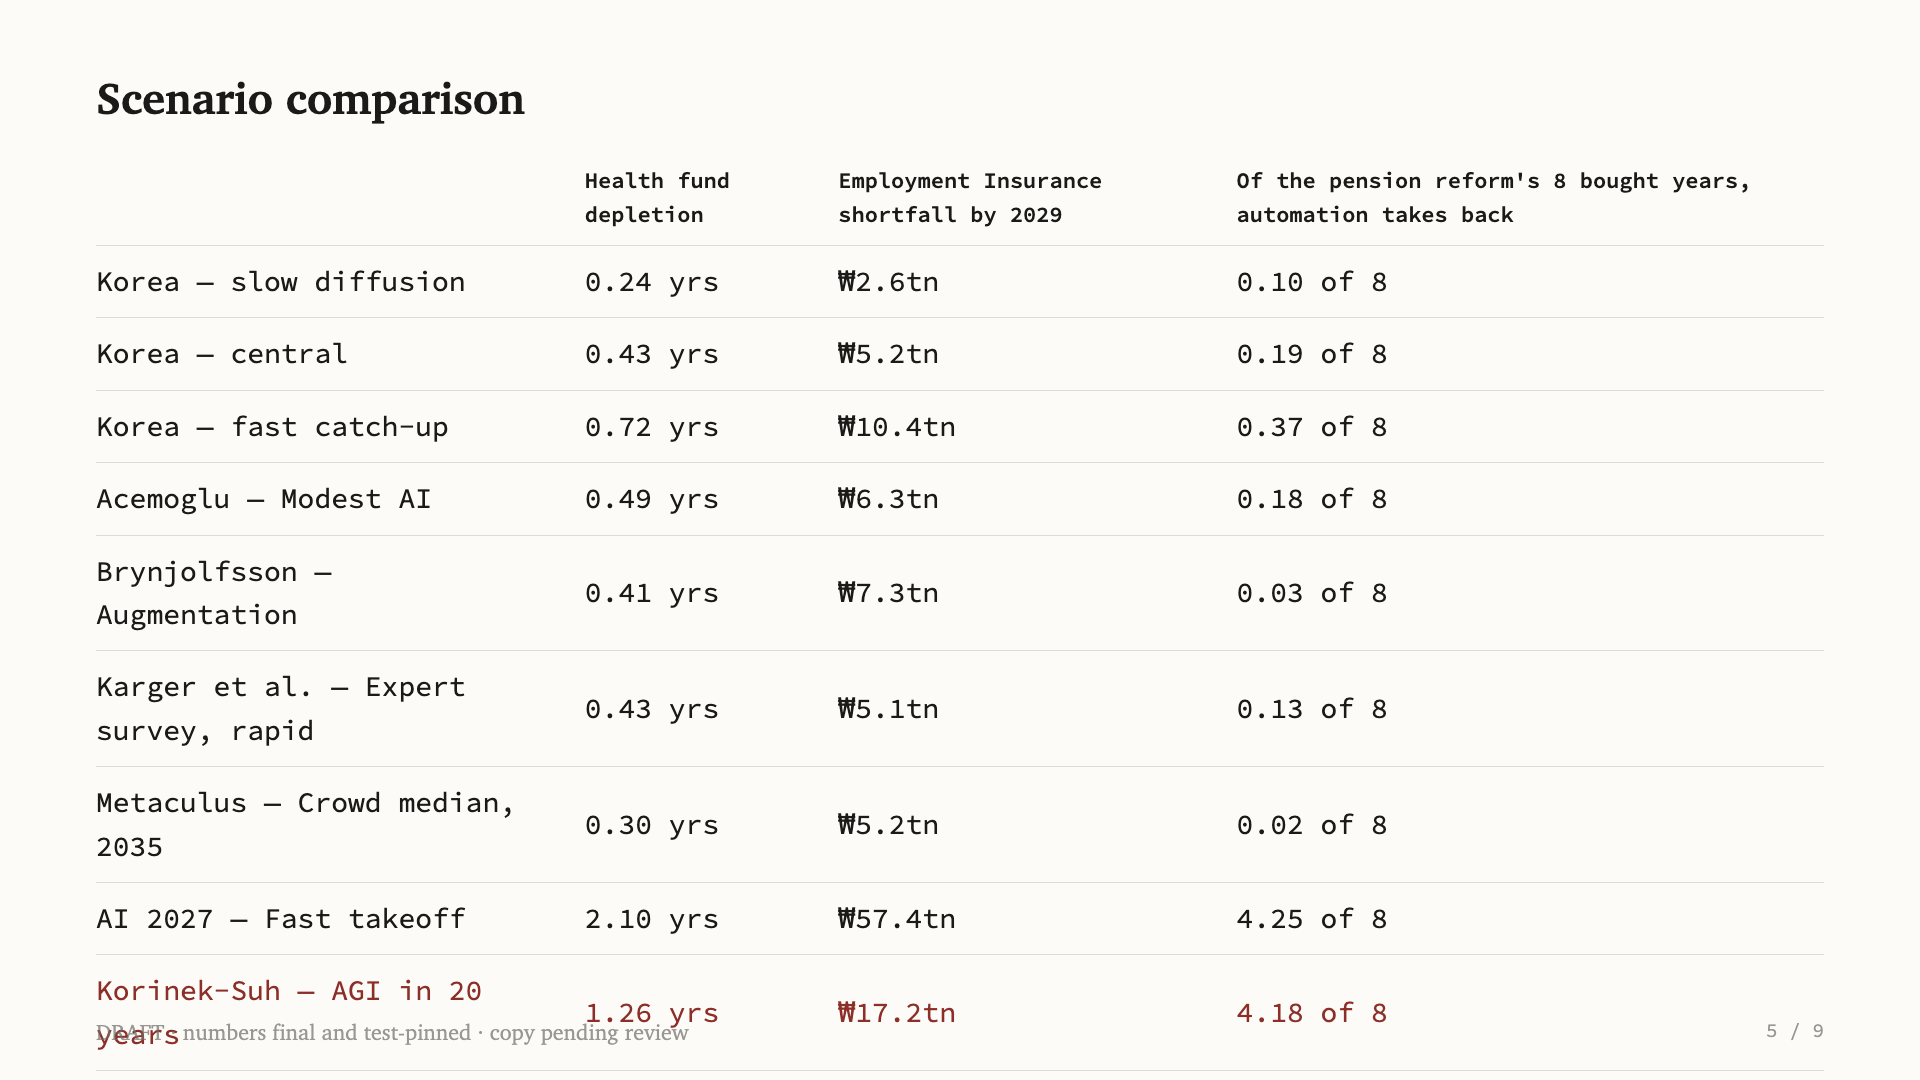
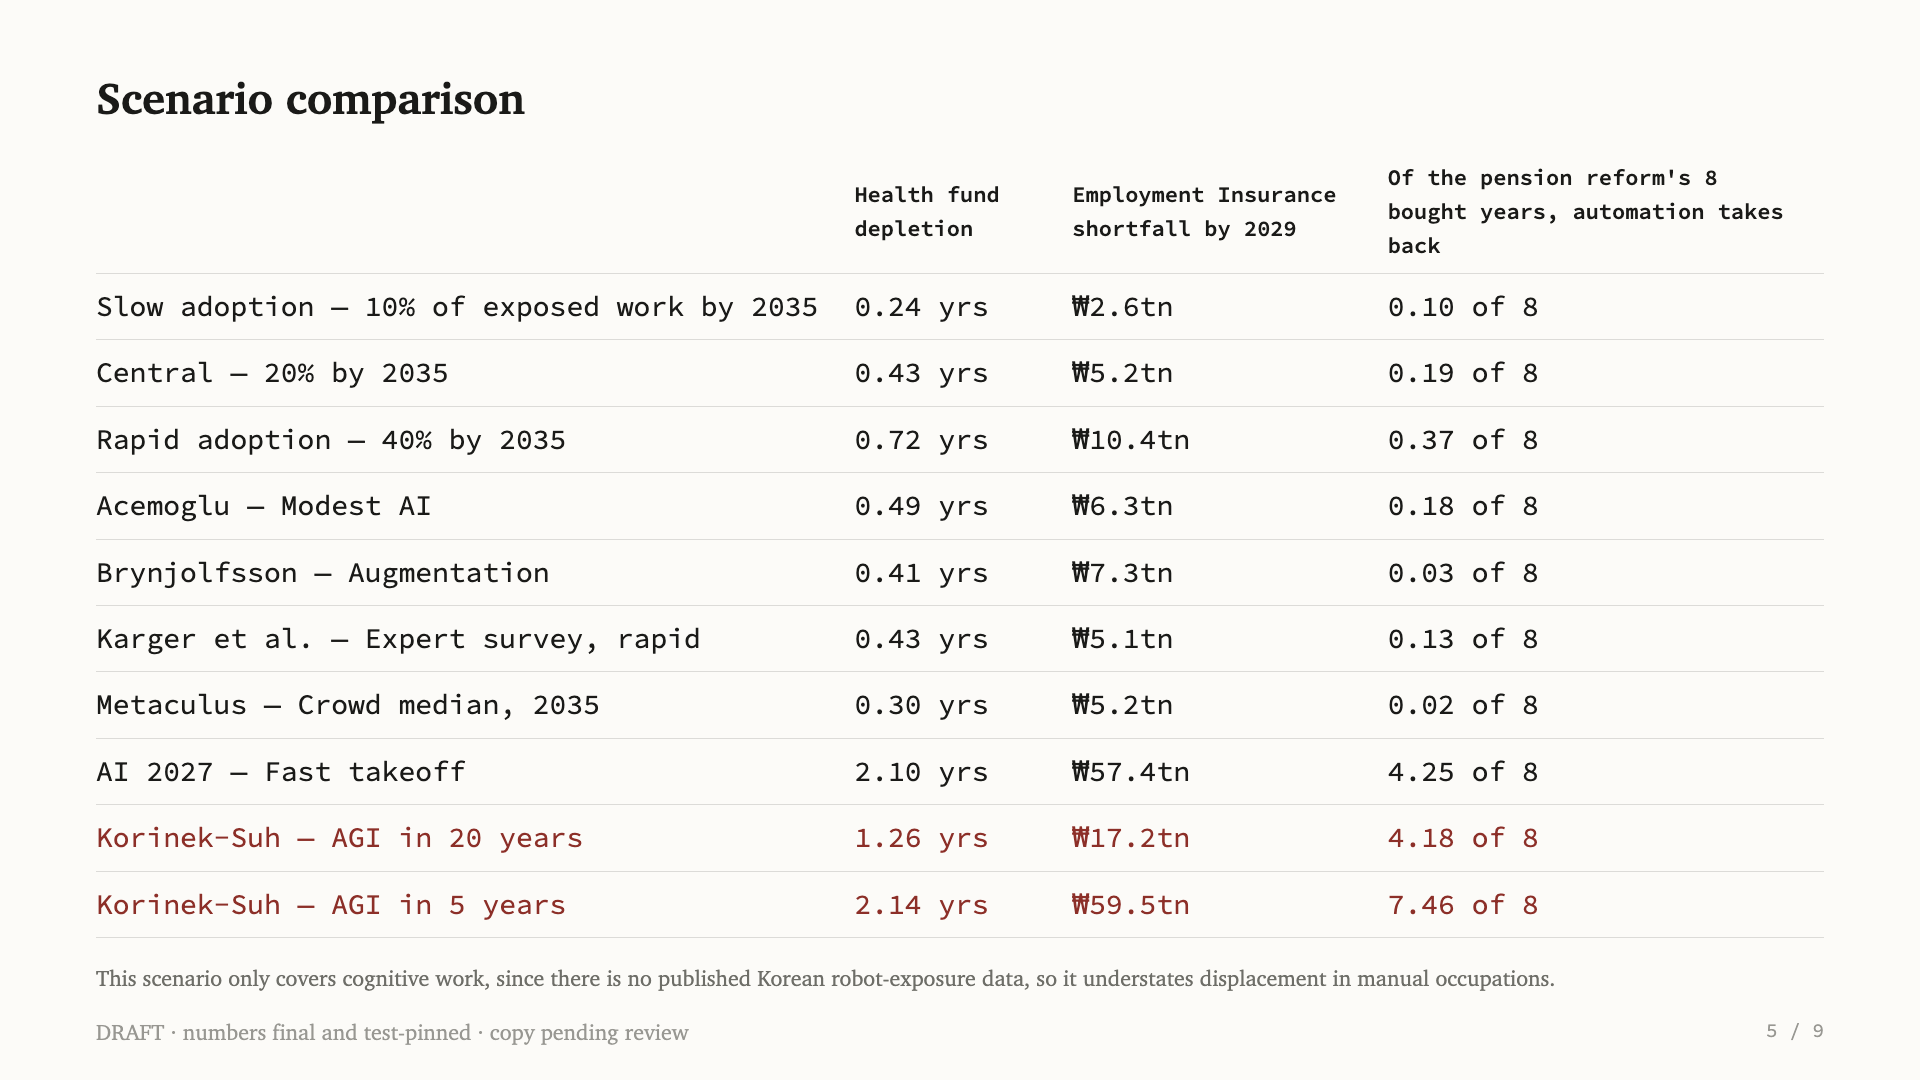
Name the diffusion trio by what they assume: 10% / 20% / 40% by 2035
"Slow diffusion / central / fast catch-up" were modelling words that read
identically to a parliamentarian. The one fact that separates the three
is the share of exposed work automated by 2035, so the names carry it
(Alex's scheme A), in the family style of the source-named presets. The
deck's scenario table keeps names on one line so ten rows clear the
footer.

Claude-Session: https://claude.ai/code/session_01MKAAR371puVB7sft3ecHY7

diff --git a/web/src/korea/slides.css b/web/src/korea/slides.css
@@ -26,10 +26,12 @@
 .slide-note { margin-top: 20px; max-width: 1500px; }
 .slide-cols { display: grid; grid-template-columns: 3fr 2fr; gap: 48px; align-items: start; }
 .slide-table { border-collapse: collapse; margin: 24px 0; font-size: 28px; }
-.slide-table th, .slide-table td { padding: 14px 36px 14px 0; text-align: left;
+.slide-table th, .slide-table td { padding: 11px 36px 11px 0; text-align: left;
   border-bottom: 1px solid rgba(43, 40, 34, 0.15); }
 .slide-table th { font-size: 22px; font-weight: 600; }
-.slide-table .scenario-name { font-family: inherit; }
+/* ten scenarios on one stage: names never wrap (the descriptive names are long), so every
+   row stays one line and the table clears the footer */
+.slide-table .scenario-name { font-family: inherit; white-space: nowrap; }
 .slide-table .agi-row td { color: #8c2f28; }
 .slide-list { font-size: 24px; line-height: 1.6; max-width: 1500px; padding-left: 1.2em; }
 .slide-list li { margin-bottom: 10px; }

diff --git a/web/src/korea/locale.test.ts b/web/src/korea/locale.test.ts
@@ -8,7 +8,7 @@ describe('locale packs', () => {
     const p = packFor('en')
     expect(p.KO.sections.nps).toBe('National Pension Fund Reserves')
     expect(p.lever('us:reab').label).toBe('Reabsorption rate per year')
-    expect(p.preset('korea-central').name).toBe('Korea — central')
+    expect(p.preset('korea-central').name).toBe('Central — 20% by 2035')
     expect(p.group('Labor market')).toBe('Labor market')
   })
 

diff --git a/fiscal_model/korea_scenarios.py b/fiscal_model/korea_scenarios.py
@@ -192,7 +192,7 @@ KOREA_DIFFUSION_LABOUR_PROVENANCE = {
 
 KOREA_PRESETS = {
     "korea-slow": Preset(
-        key="korea-slow", name="Korea — slow diffusion", blurb="Slow diffusion, where SME lag holds realized displacement of exposed work to 10% by 2035.",
+        key="korea-slow", name="Slow adoption — 10% of exposed work by 2035", blurb="Slow diffusion, where SME lag holds realized displacement of exposed work to 10% by 2035.",
         adoption_start=0.005, adoption_end=0.10, n_periods=10, overrides=dict(KOREA_DIFFUSION_LABOUR),
         adoption_reach_year=9,
         provenance={
@@ -204,7 +204,7 @@ KOREA_PRESETS = {
                             "realized displacement of HELC jobs to ~10% by 2035",
         }),
     "korea-central": Preset(
-        key="korea-central", name="Korea — central", blurb="US-observed early adoption discounted for Korea's SME lag, reaching 20% of exposed work by 2035.",
+        key="korea-central", name="Central — 20% by 2035", blurb="US-observed early adoption discounted for Korea's SME lag, reaching 20% of exposed work by 2035.",
         adoption_start=0.01, adoption_end=0.20, n_periods=10, overrides=dict(KOREA_DIFFUSION_LABOUR),
         adoption_reach_year=9,
         provenance={
@@ -214,7 +214,7 @@ KOREA_PRESETS = {
                             "automatable within 10y → 0.20 with the Korea adoption lag",
         }),
     "korea-fast": Preset(
-        key="korea-fast", name="Korea — fast catch-up", blurb="Half of feasible automation realized by 2035, with Korea's ICT readiness driving a fast catch-up.",
+        key="korea-fast", name="Rapid adoption — 40% by 2035", blurb="Half of feasible automation realized by 2035, with Korea's ICT readiness driving a fast catch-up.",
         adoption_start=0.02, adoption_end=0.40, n_periods=10, overrides=dict(KOREA_DIFFUSION_LABOUR),
         adoption_reach_year=9,
         provenance={
